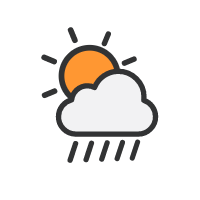
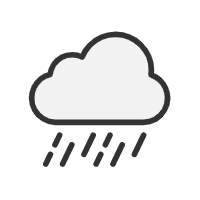
feat: Finish MainTemp Component

Changed region(s): [[0.12, 0.12, 0.87, 0.84]]

diff --git a/src/components/searchBar/SearchBar.tsx b/src/components/searchBar/SearchBar.tsx
@@ -1,4 +1,4 @@
-import React, { useState } from 'react'
+import React, { SetStateAction, useState } from 'react'
 import { IForecastItem, IWeatherData } from '../../interfaces/weather.interface';
 import weatherService from '../../services/weather.service';
 
@@ -7,9 +7,11 @@ import EnterLogo from '../../assets/Enter_Logo.png';
 type ISearchBarProps = {
   setChosenLocation: React.Dispatch<React.SetStateAction<IWeatherData | null>>;
   setForecastData: React.Dispatch<React.SetStateAction<IForecastItem[]>>;
+  setChosenCity: React.Dispatch<React.SetStateAction<string>>;
+  chosenCity: string;
 }
 
-function SearchBar({ setChosenLocation, setForecastData }: ISearchBarProps) {
+function SearchBar({ setChosenLocation, setForecastData, setChosenCity }: ISearchBarProps) {
   const [inputValue, setInputValue] = useState<string>('');
   const [isSubmitted, toggleIsSubmitted] = useState<boolean>(false);
   const [isLoading, toggleIsLoading] = useState<boolean>(false);
@@ -37,6 +39,7 @@ function SearchBar({ setChosenLocation, setForecastData }: ISearchBarProps) {
       if (weatherResponse.status === 200 && forecastResponse.status === 200) {
         setChosenLocation(weatherResponse.data);
         setForecastData(forecastResponse.data.list);
+        setChosenCity(inputValue);
         toggleIsSubmitted(true);
       } else {
         toggleIsSubmitted(true);
@@ -61,7 +64,7 @@ function SearchBar({ setChosenLocation, setForecastData }: ISearchBarProps) {
   return (
     <div className='flex flex-row justify-between items-center'>
       <input
-        className={`bg-transparent outline-none flex-grow ${isSubmitted ? isError ? 'text-red-900' : 'text-green-900' : 'text-white'}`}
+        className={`bg-transparent outline-none flex-grow font-bold ${isSubmitted ? isError ? 'text-red-700' : 'text-green-700' : 'text-white'}`}
         onChange={handleChange} placeholder='Search for Cities'
         onKeyDown={handleOnEnter}
         onFocus={handleResetState}

diff --git a/src/App.tsx b/src/App.tsx
@@ -1,6 +1,9 @@
 import React, { useState } from 'react';
+
+import MainTemp from './components/mainTempBar/MainTemp';
 import SearchBar from './components/searchBar/SearchBar';
 import Sidebar from './components/sidebar/Sidebar';
+
 import { IForecastItem, IWeatherData } from './interfaces/weather.interface';
 
 function App() {
@@ -17,12 +20,14 @@ function App() {
 
         <div className='grid grid-cols-1 gap-4 md:grid-cols-3'>
           <div className='p-2 md:col-span-2 md:row-span-1 bg-main-gray rounded-lg'>
-            <SearchBar setChosenLocation={setChosenLocation} setForecastData={setForecastData} />
+            <SearchBar setChosenLocation={setChosenLocation} setForecastData={setForecastData} chosenCity={chosenCity} setChosenCity={setChosenCity} />
           </div>
-          <div className='p-4 bg-gray-200 md:col-span-2 md:row-span-1'>Main Temperature</div>
-          <div className='p-4 bg-gray-200 md:col-span-2 md:row-span-1 md:col-start-1'>Hourly Forecast</div>
-          <div className='p-4 bg-gray-200 md:col-span-2 md:row-span-1'>Extra Information</div>
-          <div className='p-4 bg-gray-200 md:col-span-1 md:col-start-3 md:row-span-4 md:row-start-1'>5 Day Forecast</div>
+          <div className='p-4 md:col-span-2 md:row-span-1 rounded-lg'>
+            <MainTemp chosenCity={chosenCity} chosenLocation={chosenLocation} />
+          </div>
+          <div className='p-4 md:col-span-2 md:row-span-1 md:col-start-1 bg-main-gray rounded-lg'>Hourly Forecast</div>
+          <div className='p-4 md:col-span-2 md:row-span-1 bg-main-gray rounded-lg'>Extra Information</div>
+          <div className='p-4 md:col-span-1 md:col-start-3 md:row-span-4 md:row-start-1 bg-main-gray rounded-lg'>5 Day Forecast</div>
         </div>
       </div>
     </div>

diff --git a/src/components/mainTempBar/MainTemp.tsx b/src/components/mainTempBar/MainTemp.tsx
@@ -1,18 +1,51 @@
 import React from 'react'
 import { IWeatherData } from '../../interfaces/weather.interface'
 
+import Sun from '../../assets/Sunny.png';
+import Storm from '../../assets/Storm.png';
+import Sunny_Clouds from '../../assets/Sunny_Clouds.png';
+import Sunny_Rain from '../../assets/Sunny_Rain.png';
+import Clouds from '../../assets/Clouds.png';
+import Mist from '../../assets/Mist.png';
+import Snow from '../../assets/Snow.png';
+
+
 type IMainTempProps = {
-  chosenLocation: IWeatherData;
+  chosenLocation: IWeatherData | null;
   chosenCity: string;
+}
+
+interface IWeatherKeyProps {
+  Mist: string;
+  Clear: string;
+  Clouds: string;
+  Snow: string;
+  Rain: string;
+  Storm: string;
+  [key: string]: string;
+}
+
+const weatherKeyPairs: IWeatherKeyProps = {
+  Mist: Mist,
+  Clear: Sun,
+  Clouds: Clouds,
+  Snow: Snow,
+  Rain: Sunny_Rain,
+  Storm: Storm,
 }
 
 export default function MainTemp({ chosenLocation, chosenCity }: IMainTempProps) {
   return (
-    <div>
-      <div>
-        <h1>{chosenCity}</h1>
+    <div className='flex md:flex-row flex-col justify-between items-center text-white'>
+      <div className='flex flex-col flex-grow w-full md:w-auto'>
+        <span className='text-[2.5rem] font-bold'>{chosenCity}</span>
+        <span className='mb-16'>{chosenLocation?.weather[0].description}</span>
+
+        <span className='mt-auto mb-2 text-[3rem] font-bold'>Temp: {chosenLocation?.main.temp} C</span>
       </div>
-      {/* <img src={} alt="" /> */}
+      <div>
+        {<img src={weatherKeyPairs[chosenLocation ? chosenLocation.weather[0].main : Sunny_Clouds]} alt="" />}
+      </div>
     </div>
   )
 }

diff --git a/src/services/weather.service.ts b/src/services/weather.service.ts
@@ -10,7 +10,7 @@ interface IWeatherService {
 }
 
 const appid = process.env.REACT_APP_APPID;
-const unitsParam = "metric";
+const units = "metric";
 
 const weatherService: IWeatherService = {
   async getWeatherByLocation(lat: number, lon: number) {
@@ -18,7 +18,7 @@ const weatherService: IWeatherService = {
       lat,
       lon,
       appid,
-      unitsParam
+      units
     };
     return httpService.get('/data/2.5/weather', { params });
   },
@@ -27,7 +27,7 @@ const weatherService: IWeatherService = {
       q,
       limit: 1,
       appid,
-      unitsParam
+      units
     };
     return httpService.get('/geo/1.0/direct', { params });
   },
@@ -36,7 +36,7 @@ const weatherService: IWeatherService = {
       lat,
       lon,
       appid,
-      unitsParam
+      units
     };
     return httpService.get('/data/2.5/forecast', { params });
   },

diff --git a/src/interfaces/weather.interface.ts b/src/interfaces/weather.interface.ts
@@ -3,6 +3,7 @@ interface IWeatherData {
     {
       id: number;
       main: string;
+      description: string;
     }
   ];
   main: {
